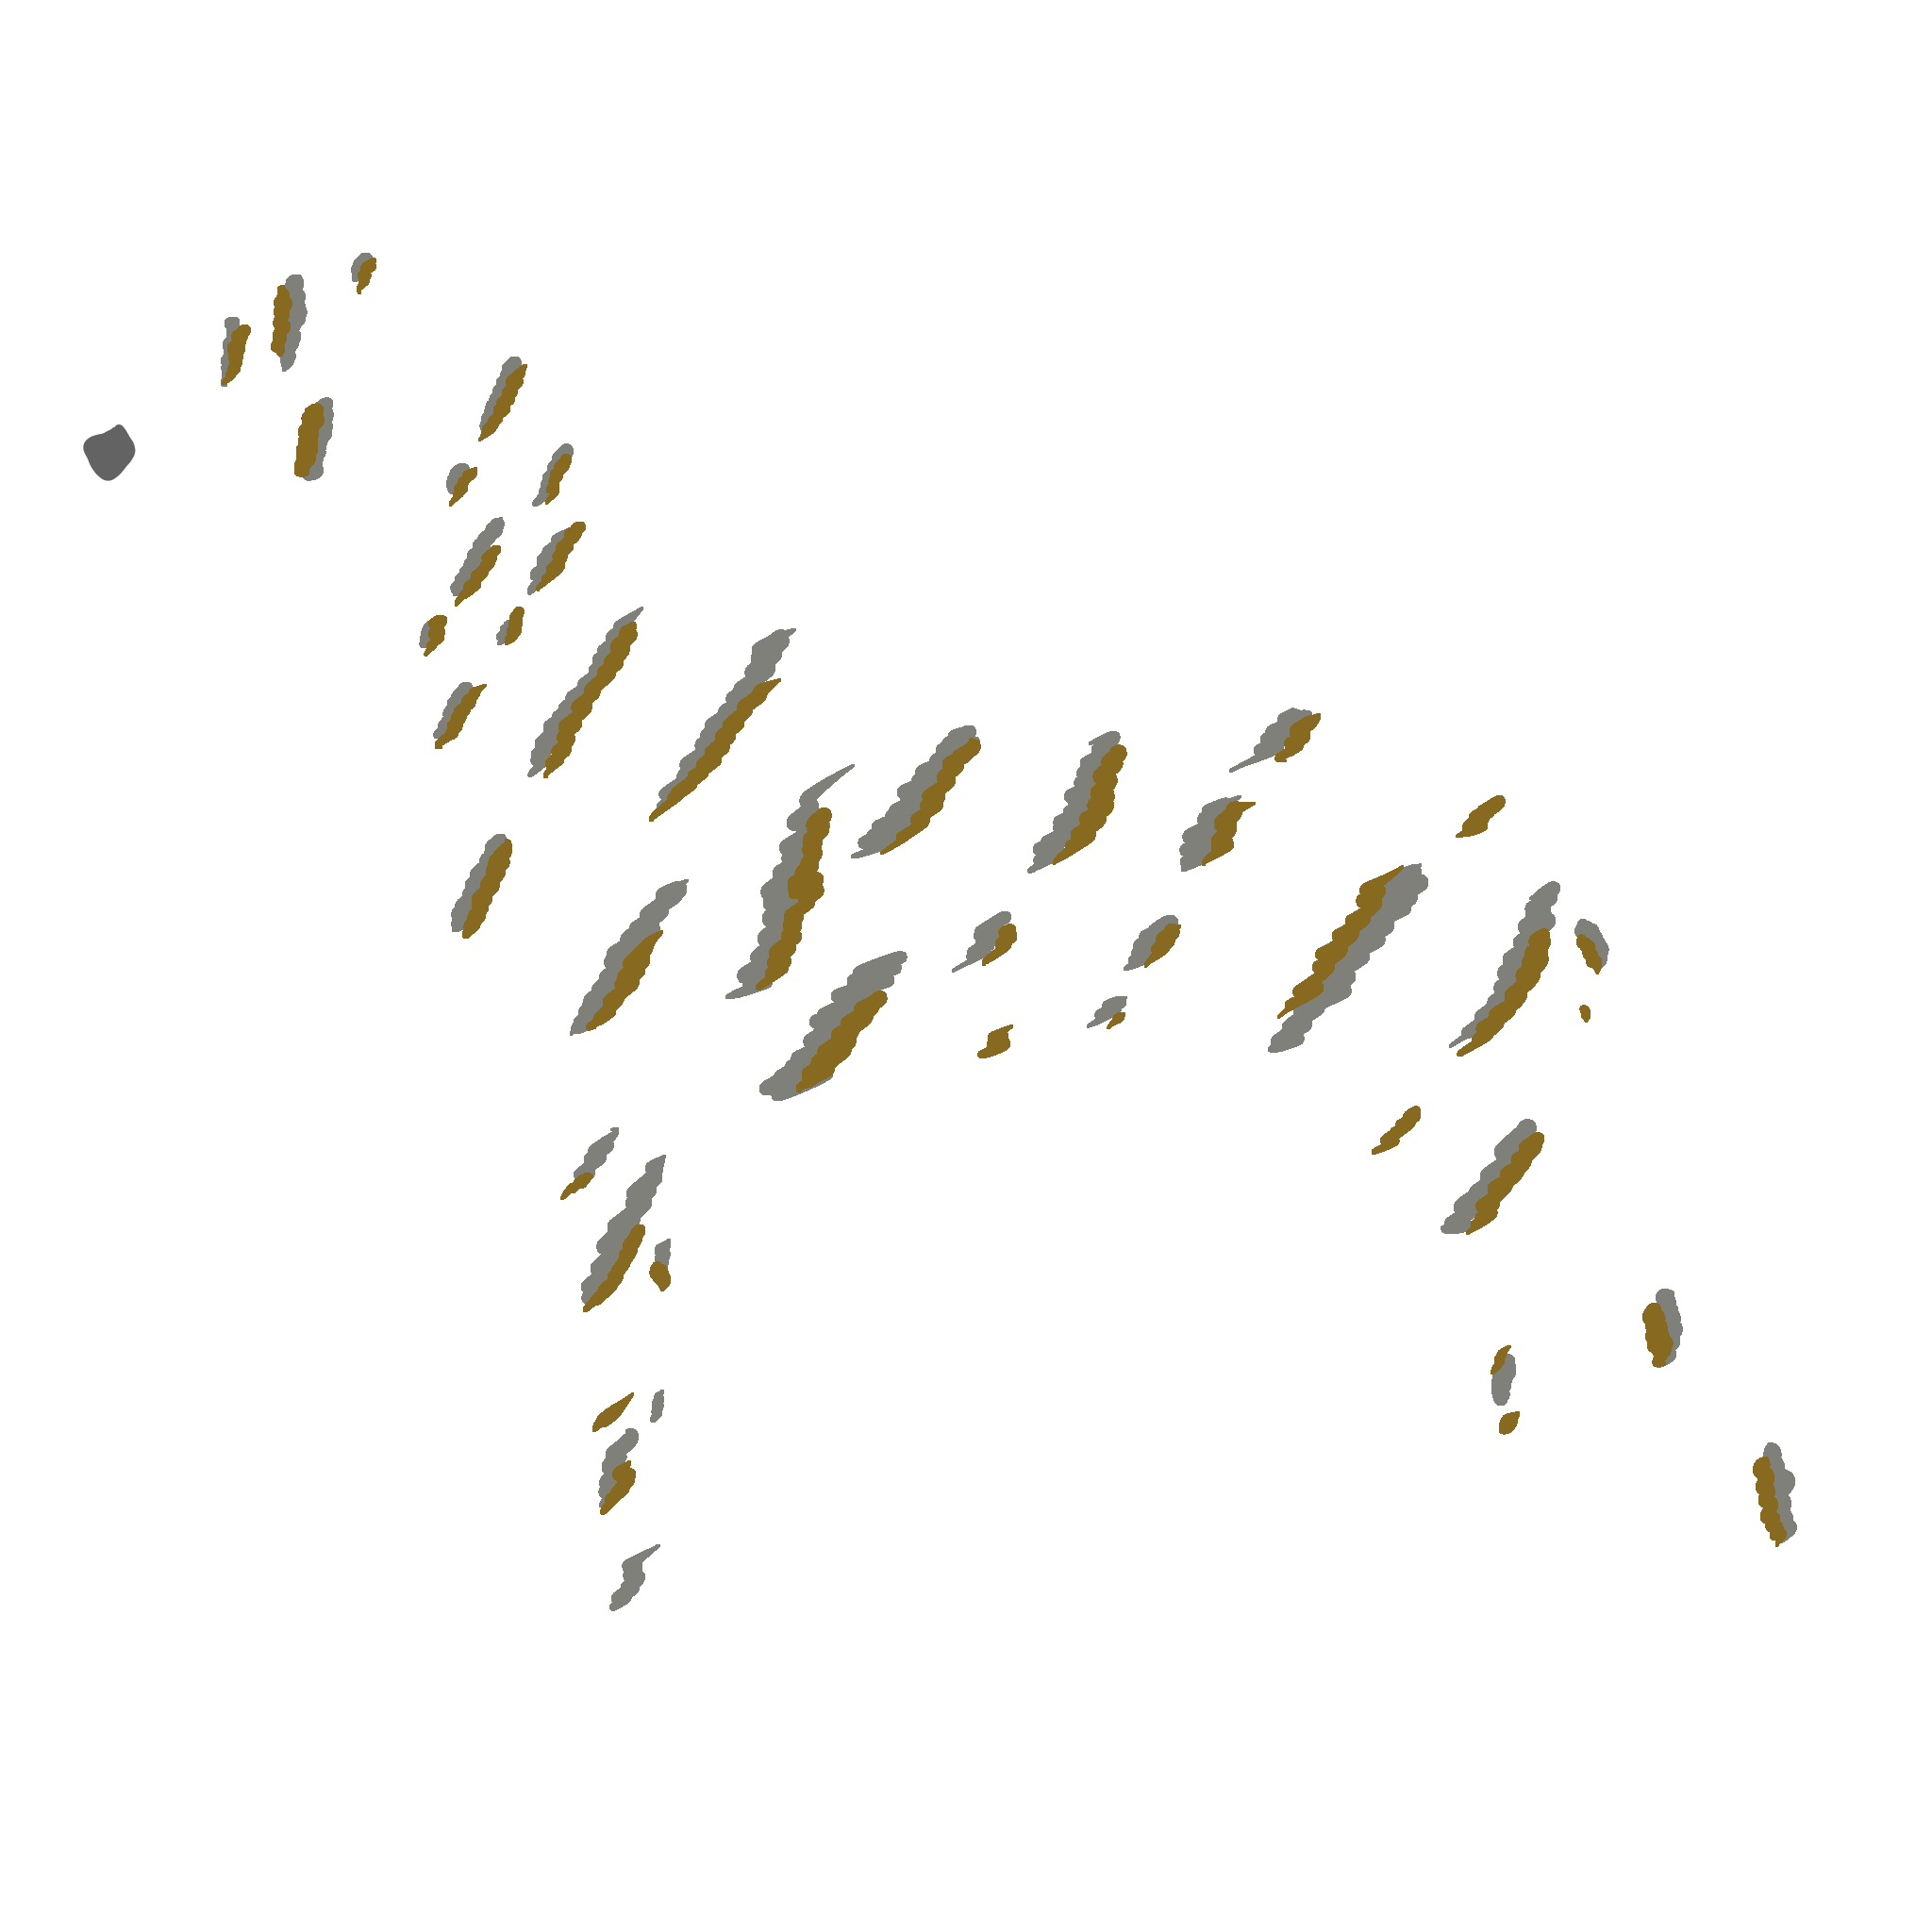
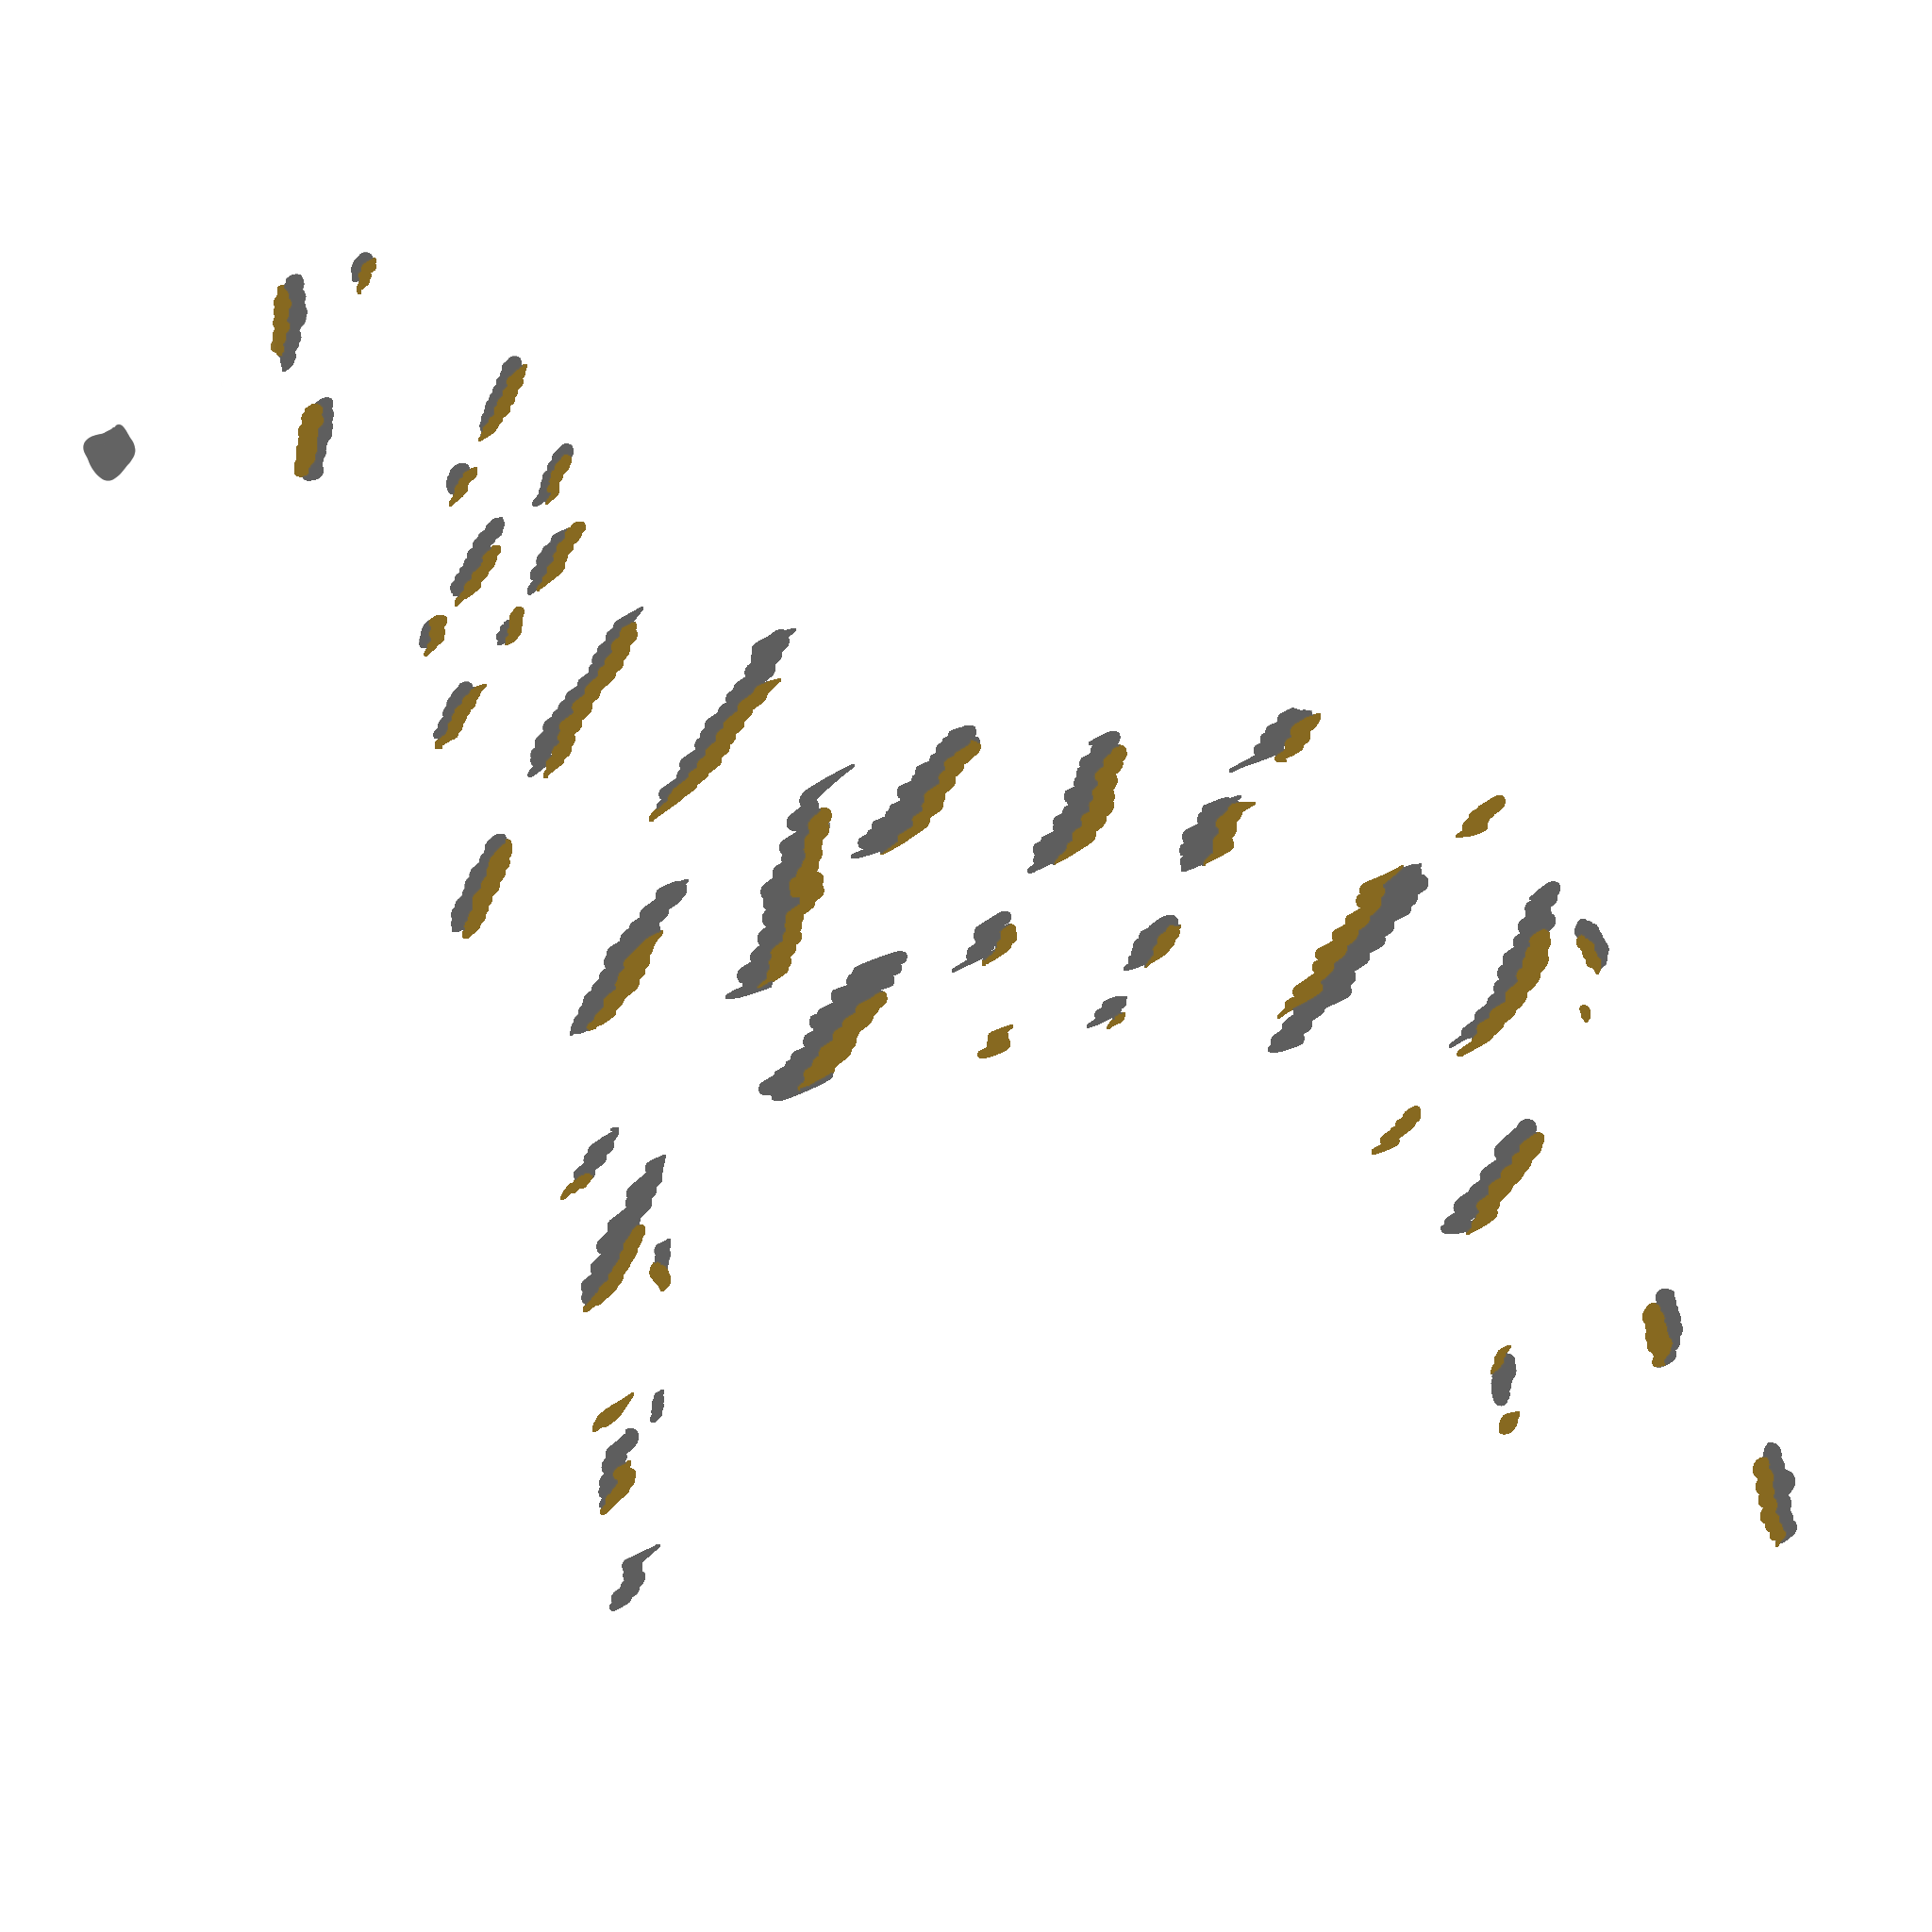
Brindles fixed, Standard restored

diff --git a/assets/script.js b/assets/script.js
@@ -220,8 +220,12 @@ function determinePhenotype(geno) {
   let warning = "";
   let standards = { akc: true, fci: true };
 
+  // HELPER: Prevents the "undefined" crash
+  const safeGet = (locus) => (geno[locus] ? geno[locus] : "");
+
   if (url.includes("yakutian")) {
-    if (geno["E"] === "ee")
+    const eGeno = safeGet("E");
+    if (eGeno === "ee")
       return {
         name: "Recessive Yellow/Red",
         carrierInfo: "",
@@ -229,21 +233,30 @@ function determinePhenotype(geno) {
         standards: { akc: true, fci: true },
         warning: "",
       };
-    const isMasked = geno["E"].includes("Em");
-    if (!isMasked && geno["E"] === "Ee") carrierNotes.push("Mask Carrier");
-    const isLiver = geno["B"] === "bb",
-      isBlue = geno["D"] === "dd",
-      isIsabella = isLiver && isBlue;
-    if (geno["B"] === "Bb") carrierNotes.push("Liver Carrier");
-    if (geno["D"] === "Dd") carrierNotes.push("Blue Carrier");
-    const hasKB = geno["K"].includes("KB");
-    if (geno["K"] === "KBky") carrierNotes.push("Non-black Carrier");
-    const aGeno = safeGet(geno, "A");
+
+    const isMasked = eGeno.includes("Em");
+    if (!isMasked && eGeno === "Ee") carrierNotes.push("Mask Carrier");
+
+    const bGeno = safeGet("B");
+    const dGeno = safeGet("D");
+    const isLiver = bGeno === "bb";
+    const isBlue = dGeno === "dd";
+    const isIsabella = isLiver && isBlue;
+
+    if (bGeno === "Bb") carrierNotes.push("Liver Carrier");
+    if (dGeno === "Dd") carrierNotes.push("Blue Carrier");
+
+    const kGeno = safeGet("K");
+    const hasKB = kGeno.includes("KB");
+    if (kGeno === "KBky") carrierNotes.push("Non-black Carrier");
+
+    const aGeno = safeGet("A");
     let aColor = "Recessive Black";
     if (aGeno.toLowerCase().includes("ay")) aColor = "Sable/Fawn";
     else if (aGeno.toLowerCase().includes("aw")) aColor = "Wild Type";
     else if (aGeno.toLowerCase().includes("at"))
       aColor = "Black and Tan (Tri-colour)";
+
     let name = isIsabella ? "Isabella" : hasKB ? "Dominant Black" : aColor;
     if (!isIsabella && hasKB) {
       if (isLiver) name = "Liver Black";
@@ -259,9 +272,11 @@ function determinePhenotype(geno) {
         aGeno.toLowerCase().includes("at"))
     )
       name += " (with Mask)";
-    const sGeno = safeGet(geno, "S");
+
+    const sGeno = safeGet("S");
     if (sGeno === "spsp") name = `Intensive White & ${name}`;
     else if (sGeno === "Ssp") name = `White & ${name}`;
+
     return {
       name,
       carrierInfo: carrierNotes.join(", "),
@@ -273,12 +288,14 @@ function determinePhenotype(geno) {
       warning: "",
     };
   } else if (url.includes("greatdane")) {
-    const mGeno = safeGet(geno, "M"),
-      hGeno = safeGet(geno, "H"),
-      kGeno = safeGet(geno, "K"),
-      aGeno = safeGet(geno, "A"),
-      dGeno = safeGet(geno, "D"),
-      sGeno = safeGet(geno, "S");
+    const mGeno = safeGet("M");
+    const hGeno = safeGet("H");
+    const kGeno = safeGet("K");
+    const aGeno = safeGet("A");
+    const dGeno = safeGet("D");
+    const sGeno = safeGet("S");
+
+    // 1. LETHAL CHECK
     if (hGeno === "HH")
       return {
         name: "Embryonic Lethal",
@@ -287,26 +304,32 @@ function determinePhenotype(geno) {
         standards: { akc: false, fci: false },
         warning: "lethal",
       };
+
+    // 2. HEALTH WARNINGS
     if (mGeno === "MM") {
       warning = "⚠️ DOUBLE MERLE: High risk of deafness/blindness";
       standards.akc = false;
       standards.fci = false;
     }
+
     const isBlue = dGeno === "dd";
     const hasKB = kGeno.includes("KB");
-    const hasKbr = kGeno.includes("kbr");
+    const hasKbr = kGeno.includes("kbr"); // Note: Fix typo here if needed: kGeno.includes('kbr')
+    const hasKbr_fixed = kGeno.includes("kbr");
+
     if (dGeno === "Dd") carrierNotes.push("Blue Carrier");
     if (kGeno === "KBky") carrierNotes.push("Non-black Carrier");
     if (sGeno === "Ssi") carrierNotes.push("Mantle Carrier");
 
+    // 3. SUBSCRIPT: Genetic type first
     let geneticType = "Recessive Black";
     if (hasKB) geneticType = "Dominant Black";
-    else if (hasKbr) geneticType = "Brindle";
+    else if (hasKbr_fixed) geneticType = "Brindle";
     carrierNotes.unshift(geneticType);
 
+    // 4. VISUAL NAME
     let name = "Black";
-    // FIXED: Case-insensitive check for 'ay'
-    if (hasKbr) {
+    if (hasKbr_fixed) {
       name = aGeno.toLowerCase().includes("ay") ? "Fawn Brindle" : "Brindle";
     } else if (!hasKB) {
       if (aGeno.toLowerCase().includes("ay")) name = "Sable/Fawn";
@@ -317,11 +340,18 @@ function determinePhenotype(geno) {
     }
 
     if (isBlue) name = `Blue ${name}`;
-    const isMerle = mGeno.includes("M"),
-      isHarlequin = hGeno.includes("H") && isMerle;
+
+    const isMerle = mGeno.includes("M");
+    const isHarlequin = hGeno.includes("H") && isMerle;
     if (isHarlequin) name = `Harlequin ${name}`;
     else if (isMerle) name = `Merle ${name}`;
     if (sGeno === "sisi") name = `Mantle ${name}`;
+
+    // 5. STANDARD CHECK (Restored)
+    if (isBlue && (isMerle || isHarlequin)) {
+      standards.akc = false;
+      standards.fci = false;
+    }
 
     return {
       name,
@@ -331,6 +361,7 @@ function determinePhenotype(geno) {
       warning: warning || (mGeno === "MM" ? "doublemerle" : ""),
     };
   }
+
   return {
     name: "Unknown",
     carrierInfo: "",
@@ -360,6 +391,7 @@ async function renderPredictions(items) {
   for (const it of items) {
     const div = document.createElement("div");
     div.className = "prediction-item";
+
     if (it.warning === "lethal") div.classList.add("bg-lethal");
     if (it.warning === "doublemerle") div.classList.add("bg-doublemerle");
 
@@ -369,17 +401,7 @@ async function renderPredictions(items) {
       const imgStack = document.createElement("div");
       imgStack.className = "pheno-stack";
 
-      const geno = it.genoStr;
-      const isBlue = geno.includes("dd");
-      const isSable = geno.toLowerCase().includes("ay"); // CASE-INSENSITIVE
-      const isKB = geno.includes("KB");
-      const isKbr = geno.includes("kbr");
-      const isEm = geno.includes("Em");
-      const isMerle = geno.includes("M");
-      const isHarlequin = geno.includes("H") && isMerle;
-      const isMantle = geno.includes("sisi");
-
-      const mergedImageSrc = await createMergedImage(geno);
+      const mergedImageSrc = await createMergedImage(it.genoStr);
       const img = document.createElement("img");
       img.src = mergedImageSrc;
       img.onclick = () => {
@@ -392,8 +414,10 @@ async function renderPredictions(items) {
 
     const textDiv = document.createElement("div");
     textDiv.className = "prediction-text";
-    const akcIcon = it.standards?.akc ? "✅" : "⚪";
-    const fciIcon = it.standards?.fci ? "💠" : "⚪";
+
+    //If not standard, return an empty string instead of a white circle
+    const akcIcon = it.standards?.akc ? "✅" : "";
+    const fciIcon = it.standards?.fci ? "💠" : "";
 
     textDiv.innerHTML = `
       <div class="prediction-title">

diff --git a/assets/styles.css b/assets/styles.css
@@ -312,8 +312,8 @@ button {
 .pheno-stack {
   /*default 80px*/
   position: relative;
-  width: 120px;
-  height: 120px;
+  width: 100px;
+  height: 100px;
   flex-shrink: 0;
   background: #0f0f12;
   border-radius: 8px;